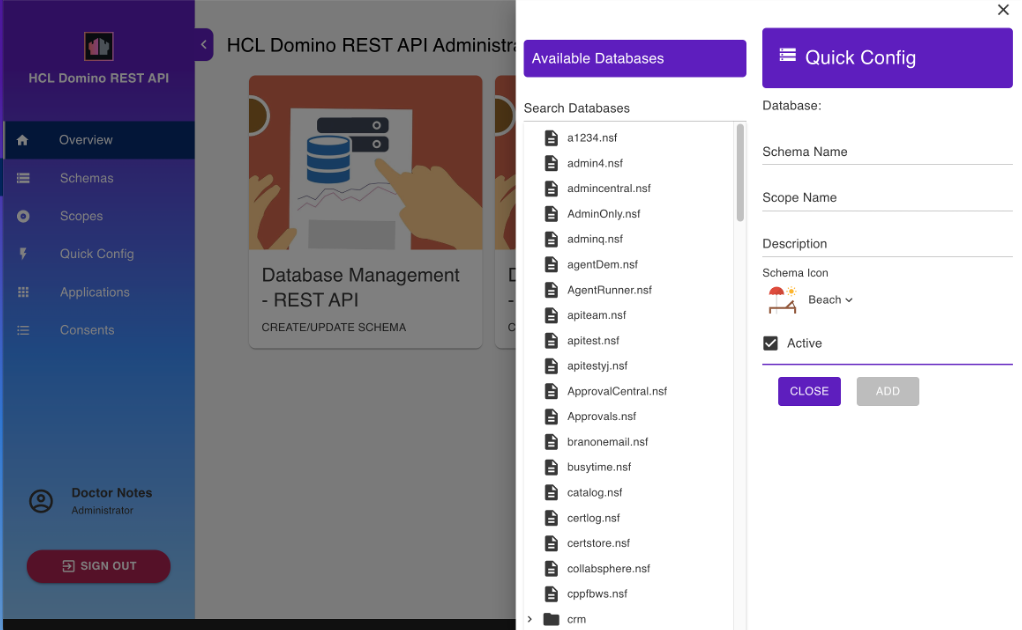
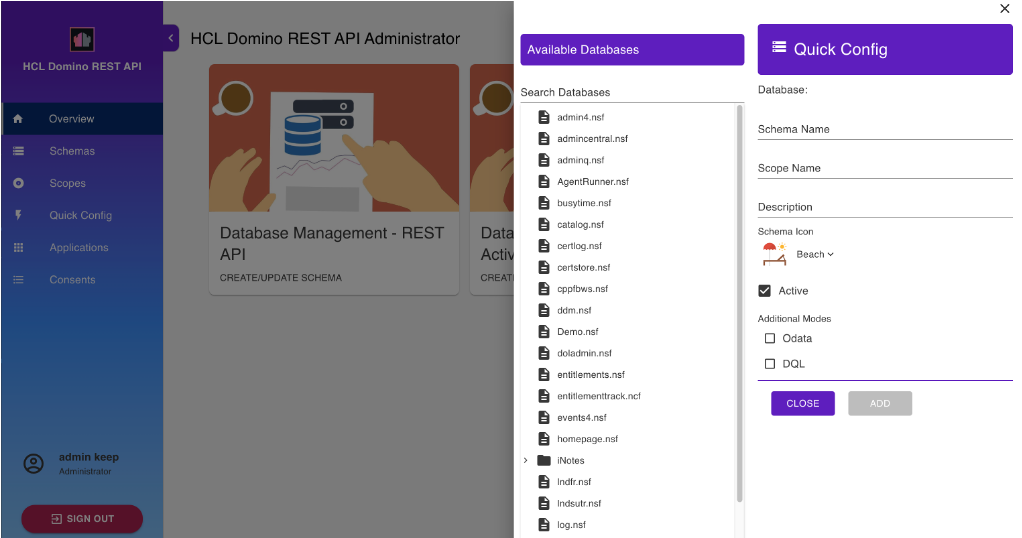
Doc updates for MXOP-14252

diff --git a/docs/references/whatisnew.md b/docs/references/whatisnew.md
@@ -7,6 +7,23 @@ The section provides information on the latest features, improvements, and resol
     - Items marked in <span style="color:red">**red**</span> are API changes that may impact your applications and should be reviewed before upgrading.
     - Always be aware of features that have been deprecated in the current and earlier releases by checking [deprecated features](deprecated.md).
 
+<!--
+???+ info "v1.0.15 - What's new or changed"
+    ## v1.0.15 - _What's new or changed_
+
+    *Release date: July XX, 2024*
+
+    **New**
+
+    **Improvements**
+
+    - Added option of selecting additional modes when executing [Quick Config](../references/usingwebui/quickconfigui.md). 
+
+    **Resolved Issues**
+
+    **Others**
+-->
+
 ???+ info "v1.0.14 - What's new or changed"
     ## v1.0.14 - _What's new or changed_
 

diff --git a/docs/references/usingwebui/quickconfigui.md b/docs/references/usingwebui/quickconfigui.md
@@ -11,6 +11,7 @@ The **Quick Config** enables you to create a schema and a scope at the same time
 2. Search and select a database from the list of **Available Databases**.
 3. Enter the **Schema Name**, **Scope Name**, and **Description**.
 4. Choose a **Schema Icon**.
+5. Choose **Additional Modes** as required.
 5. Click **Add**.
 
 After completing the steps, you can now see the created schema on the **Schema Management** page and the created scope on the **Scope Management** page. 
